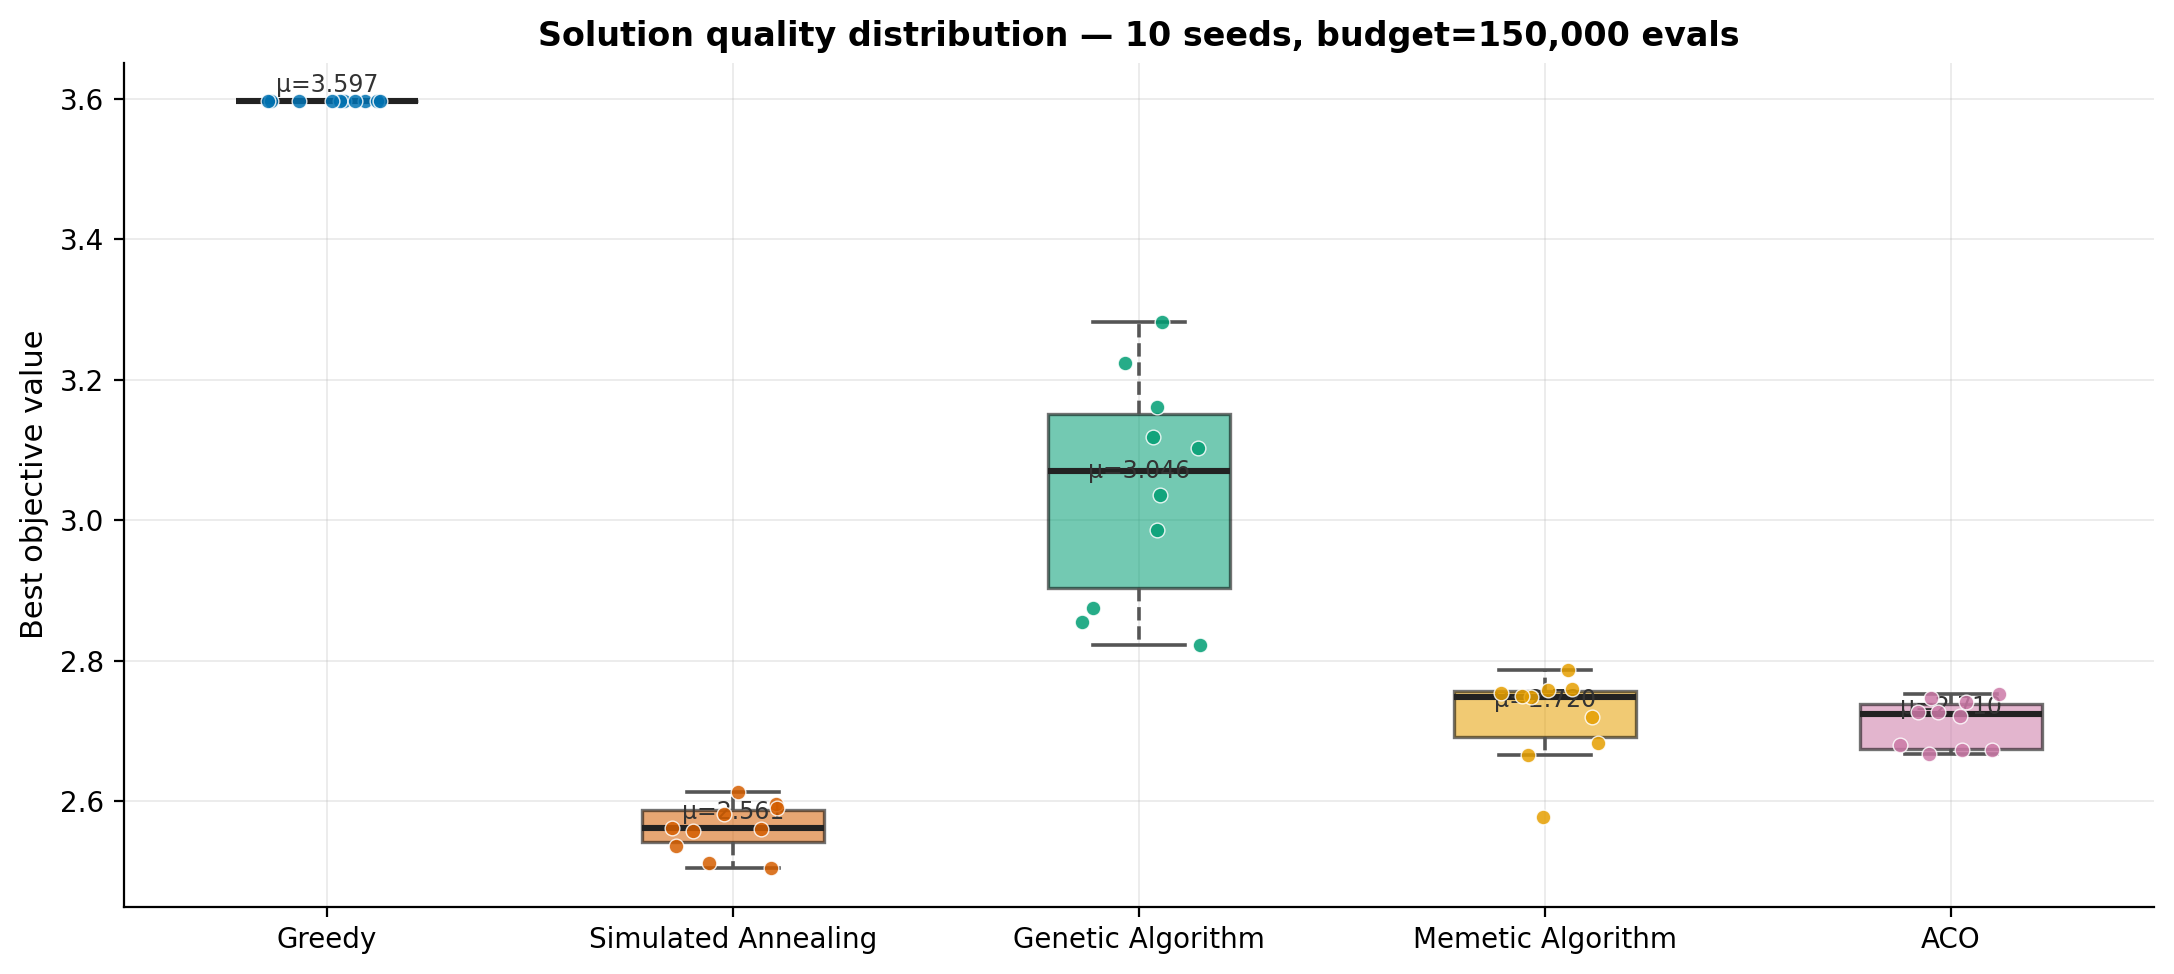
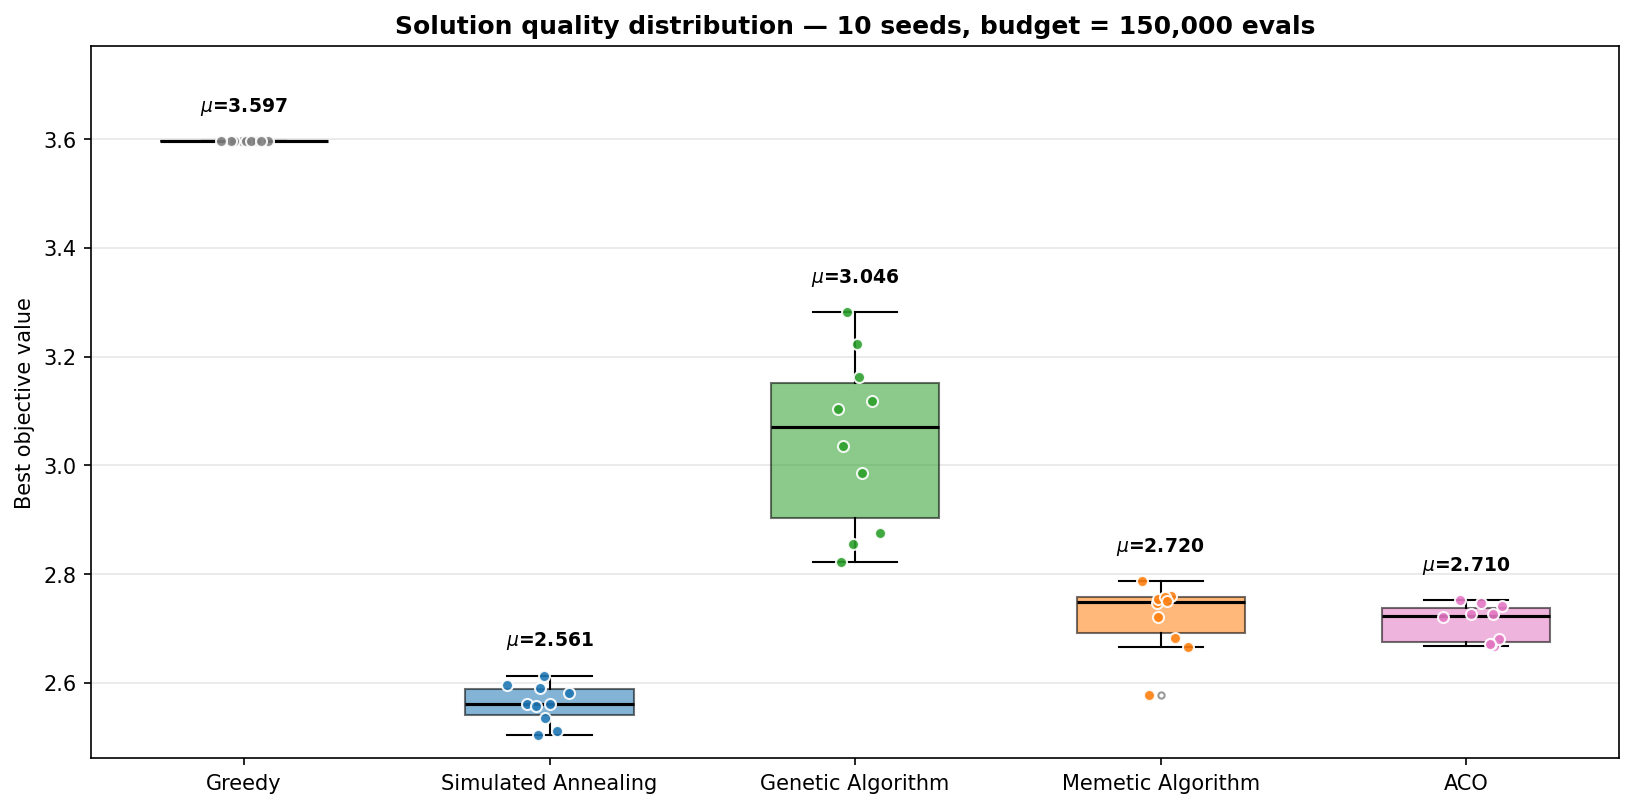
f

diff --git a/EV_routing/scripts/regen_fixed_plots.py b/EV_routing/scripts/regen_fixed_plots.py
@@ -1,0 +1,141 @@
+"""
+Regenerate the three figures that had rendering problems, from the saved CSVs.
+
+Fixes:
+  1. box_comparison.png        — mean (mu) labels were overprinting the boxes;
+                                  now placed clearly above each box.
+  2. scalability_battery.png   — the quality panel plotted penalty-dominated
+                                  infeasible cells (F up to ~28,000), which
+                                  flattened the feasible-region signal; now it
+                                  plots feasible cells only (matches the table).
+  3. scalability/quality_vs_size.png — x-axis ran to negative customer counts
+                                  with misplaced feasibility markers; replaced
+                                  with a clean mean-objective-vs-size plot
+                                  (feasible cells only, log x).
+
+Run:  PYTHONPATH=EV_routing python EV_routing/scripts/regen_fixed_plots.py
+"""
+from __future__ import annotations
+
+from pathlib import Path
+
+import numpy as np
+import pandas as pd
+import matplotlib.pyplot as plt
+
+RESULTS = Path("EV_routing/results")
+
+COLORS = {
+    "Greedy":              "#7f7f7f",
+    "Simulated Annealing": "#1f77b4",
+    "Genetic Algorithm":   "#2ca02c",
+    "Memetic Algorithm":   "#ff7f0e",
+    "ACO":                 "#e377c2",
+}
+ORDER = ["Greedy", "Simulated Annealing", "Genetic Algorithm", "Memetic Algorithm", "ACO"]
+META  = ["Simulated Annealing", "Genetic Algorithm", "Memetic Algorithm", "ACO"]
+
+
+# ---------------------------------------------------------------------------
+# 1. Box comparison — mean labels placed above the boxes
+# ---------------------------------------------------------------------------
+def fix_box_comparison() -> None:
+    df = pd.read_csv(RESULTS / "sf_75/results_per_seed.csv")
+    groups = [df.loc[df.algorithm == a, "cost"].to_numpy() for a in ORDER]
+
+    fig, ax = plt.subplots(figsize=(11, 5.5))
+    bp = ax.boxplot(groups, patch_artist=True, widths=0.55,
+                    medianprops=dict(color="black", linewidth=1.5),
+                    flierprops=dict(marker="o", markersize=3, alpha=0.4))
+    for patch, a in zip(bp["boxes"], ORDER):
+        patch.set_facecolor(COLORS[a]); patch.set_alpha(0.55)
+
+    # jittered points + mean label ABOVE each box
+    rng = np.random.default_rng(0)
+    ymax = max(g.max() for g in groups)
+    ymin = min(g.min() for g in groups)
+    pad = (ymax - ymin) * 0.04
+    for i, (g, a) in enumerate(zip(groups, ORDER), start=1):
+        x = rng.normal(i, 0.06, size=len(g))
+        ax.scatter(x, g, color=COLORS[a], edgecolor="white", s=28, zorder=3, alpha=0.9)
+        ax.text(i, g.max() + pad, f"$\\mu$={g.mean():.3f}",
+                ha="center", va="bottom", fontsize=9, fontweight="bold")
+
+    ax.set_xticks(range(1, len(ORDER) + 1))
+    ax.set_xticklabels(ORDER)
+    ax.set_ylabel("Best objective value")
+    ax.set_ylim(ymin - pad, ymax + pad * 4)
+    ax.set_title("Solution quality distribution — 10 seeds, budget = 150,000 evals",
+                 fontweight="bold")
+    ax.grid(axis="y", alpha=0.3)
+    fig.tight_layout()
+    out = RESULTS / "sf_75/figures/box_comparison.png"
+    fig.savefig(out, dpi=150, bbox_inches="tight"); plt.close(fig)
+    print(f"  wrote {out}")
+
+
+# ---------------------------------------------------------------------------
+# 2. Battery scalability — feasible cells only on the quality panel
+# ---------------------------------------------------------------------------
+def fix_battery() -> None:
+    df = pd.read_csv(RESULTS / "sf_75/scalability_battery.csv")
+    fig, (axq, axf) = plt.subplots(1, 2, figsize=(13, 5))
+
+    for a in META:
+        sub = df[df.algorithm == a].sort_values("battery_capacity_kwh")
+        feas = sub[sub.feasible_pct >= 99.9]   # drop penalty-dominated cells
+        axq.plot(feas.battery_capacity_kwh, feas.avg_cost, marker="o",
+                 color=COLORS[a], label=a, linewidth=1.8)
+        axf.plot(sub.battery_capacity_kwh, sub.feasible_pct, marker="s",
+                 color=COLORS[a], label=a, linewidth=1.8)
+
+    for ax in (axq, axf):
+        ax.invert_xaxis()  # loose -> tight
+        ax.set_xlabel("Battery capacity (kWh)  (← more constrained)")
+        ax.grid(alpha=0.3)
+    axq.set_ylabel("Average objective value (feasible cells only, lower = better)")
+    axq.set_title("Solution Quality vs. Constraint Tightness")
+    axq.legend(fontsize=9)
+    axf.set_ylabel("Feasible solutions (%)")
+    axf.set_title("Feasibility Rate vs. Constraint Tightness")
+    axf.set_ylim(-5, 105)
+    fig.suptitle("Vertical Scalability — 75 customers, battery capacity varied from loose to tight",
+                 fontweight="bold")
+    fig.tight_layout()
+    out = RESULTS / "sf_75/figures/scalability_battery.png"
+    fig.savefig(out, dpi=150, bbox_inches="tight"); plt.close(fig)
+    print(f"  wrote {out}")
+
+
+# ---------------------------------------------------------------------------
+# 3. Customer scalability (standalone study) — clean mean-vs-size, feasible only
+# ---------------------------------------------------------------------------
+def fix_quality_vs_size() -> None:
+    df = pd.read_csv(RESULTS / "scalability/scalability_results.csv")
+    fig, ax = plt.subplots(figsize=(10, 5.5))
+
+    for a in META:
+        sub = df[(df.algorithm == a) & (df.feasible_pct >= 99.9)].sort_values("n_customers")
+        if sub.empty:
+            continue
+        ax.plot(sub.n_customers, sub["mean"], marker="o",
+                color=COLORS[a], label=a, linewidth=1.8)
+
+    ax.set_xscale("log")
+    ax.set_xlabel("Number of customers (log scale)")
+    ax.set_ylabel("Mean objective value (feasible runs only, lower = better)")
+    ax.set_title("Solution quality vs. instance size")
+    ax.grid(alpha=0.3, which="both")
+    ax.legend(fontsize=9)
+    fig.tight_layout()
+    out = RESULTS / "scalability/figures/quality_vs_size.png"
+    fig.savefig(out, dpi=150, bbox_inches="tight"); plt.close(fig)
+    print(f"  wrote {out}")
+
+
+if __name__ == "__main__":
+    print("Regenerating fixed figures:")
+    fix_box_comparison()
+    fix_battery()
+    fix_quality_vs_size()
+    print("Done.")